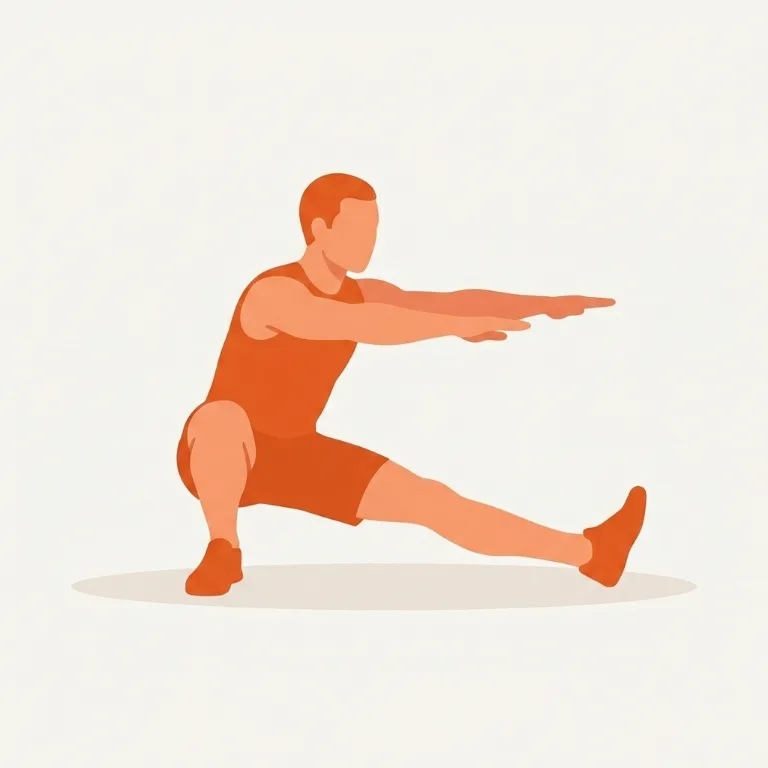
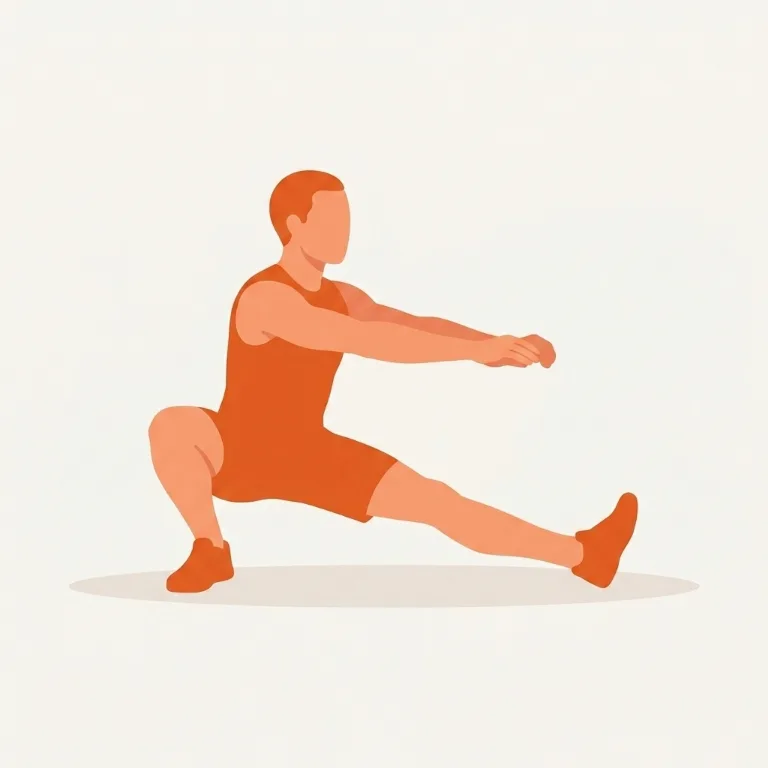
Replace light stretches with advanced split-focused work
Per Gabriel's goal (full front split / espacate), the easy filler
stretches give way to advanced drills taught in the playlist:

  neck-rolls        → leg-swings (dynamic, split-specific warm-up)
  rolldown          → jefferson-curl (loaded, Calimove/Strength Side)
  constructive-rest → removed (passive)
  childs-side-reach → removed (gentle)
  supine-twist      → removed (gentle)
  new in Front Split: standing-split · twisted-lizard (both per side)

Série 3 (Front Split) now carries 8 split drills; series stay balanced
at 21/19/20/19 holds (~2 h total). History remains safe for removed ids
(renders the raw id). Generated art for the four new exercises, and
regenerated pancake-fold (was a closed-leg rounded fold — now a clear
wide straddle with a flat back) and cossack to match the corrected
cues; orphaned images removed.

Claude-Session: https://claude.ai/code/session_019AqbedViT1ZmWN3hovyGKq

diff --git a/js/data.js b/js/data.js
@@ -125,7 +125,7 @@ export const EXERCISES = [
   { id: 'dead-hang',        cat: 'cal',  name: 'Dead Hang',        mode: 'time', target: 30, cue: 'Relax into the hang, breathe' },
 
   // ═══════════════ STRETCHING · Warm-up ═══════════════
-  { id: 'neck-rolls',        cat: 'stretch', group: 'warm', name: 'Neck Rolls',        mode: 'time', target: 60, cue: 'Slow half-circles in front only — ear to shoulder, chin to chest, never crank back' },
+  { id: 'leg-swings',        cat: 'stretch', group: 'warm', name: 'Leg Swings',        mode: 'time', target: 60, cue: 'Front-to-back swings, tall posture, hips square — bigger each rep; switch legs halfway' },
   { id: 'cat-cow',           cat: 'stretch', group: 'warm', name: 'Cat–Cow',           mode: 'time', target: 60, cue: 'Move with the breath — inhale arch and look up, exhale round and press the floor away' },
   { id: 'thoracic-rotation', cat: 'stretch', group: 'warm', name: 'Thoracic Rotation', mode: 'time', target: 60, side: true, cue: 'All fours, hand behind head — open to the ceiling and follow the elbow with your eyes' },
   { id: 'hip-cars',          cat: 'stretch', group: 'warm', name: 'Hip CARs',          mode: 'time', target: 60, side: true, cue: 'Biggest pain-free knee circle at the hip, torso braced still — slow beats big' },
@@ -148,7 +148,6 @@ export const EXERCISES = [
   { id: 'low-lunge',        cat: 'stretch', group: 'psoas', name: 'Low Lunge',              mode: 'time', target: 60, side: true, cue: 'Tuck the pelvis and squeeze the back glute first, then sink — the stretch is in the front of the back hip' },
   { id: 'couch-stretch',    cat: 'stretch', group: 'psoas', name: 'Couch Stretch',          mode: 'time', target: 60, side: true, cue: 'Back foot up the wall, knee in the corner — rise only as far as the pelvis stays tucked' },
   { id: 'lizard',           cat: 'stretch', group: 'psoas', name: 'Lizard Pose',            mode: 'time', target: 60, side: true, cue: 'Both hands inside the front foot, back leg long — forearms down only if the hips stay level' },
-  { id: 'constructive-rest', cat: 'stretch', group: 'psoas', name: 'Constructive Rest',     mode: 'time', target: 60, cue: 'On the back, knees bent, feet flat — do nothing; slow breaths tell the psoas it is safe to let go' },
   { id: 'standing-hip-ext', cat: 'stretch', group: 'psoas', name: 'Standing Hip Extension', mode: 'time', target: 60, side: true, cue: 'Reach the leg long behind you, pelvis level and tucked — squeeze the glute, never arch the low back' },
 
   // ═══════════════ STRETCHING · Hamstrings ═══════════════
@@ -158,7 +157,7 @@ export const EXERCISES = [
   { id: 'hinge-fold',           cat: 'stretch', group: 'hams', name: 'Hinge Fold',           mode: 'time', target: 60, cue: 'Stick the butt back, arch the lower back, chest travels forward-and-down — stop the moment the arch is lost' },
   { id: 'half-split',           cat: 'stretch', group: 'hams', name: 'Half Split',           mode: 'time', target: 60, side: true, cue: 'Runner’s stretch — hips square and stacked over the back knee, chest long over the front leg' },
   { id: 'hurdler',              cat: 'stretch', group: 'hams', name: 'Hurdler Stretch',      mode: 'time', target: 60, side: true, cue: 'Sit on a cushion so the pelvis can tip forward — fold at the hips over the leg; a bent knee beats a rounded back' },
-  { id: 'rolldown',             cat: 'stretch', group: 'hams', name: 'Slow Rolldown',        mode: 'time', target: 60, cue: 'Roll down vertebra by vertebra with soft knees — hang, then rebuild the spine from the bottom up' },
+  { id: 'jefferson-curl',       cat: 'stretch', group: 'hams', name: 'Jefferson Curl',       mode: 'time', target: 60, cue: 'Light weight in the hands — roll down vertebra by vertebra, knees locked, hang, rebuild slowly' },
 
   // ═══════════════ STRETCHING · Front split (espacate) ═══════════════
   { id: 'lunge-pulses',         cat: 'stretch', group: 'split', name: 'Lunge Pulses',            mode: 'time', target: 60, side: true, cue: 'Deep lunge, back knee hovering — small controlled sinks with the hips square to the front' },
@@ -167,6 +166,8 @@ export const EXERCISES = [
   { id: 'standing-quad',        cat: 'stretch', group: 'split', name: 'Standing Quad Pull',      mode: 'time', target: 60, side: true, cue: 'Heel to glute, knees together, pelvis tucked — the pull climbs the front of the thigh' },
   { id: 'front-split',          cat: 'stretch', group: 'split', name: 'Front Split · Espacate',  mode: 'time', target: 60, side: true, cue: 'Blocks under the hands, hips square — belly-breathe, soften the face, and sink a little on each exhale' },
   { id: 'split-pnf',            cat: 'stretch', group: 'split', name: 'Split PNF Press',         mode: 'time', target: 60, side: true, cue: 'In your deepest split: press both legs into the floor 10 s, release with a belly breath — repeat 3 rounds' },
+  { id: 'standing-split',       cat: 'stretch', group: 'split', name: 'Standing Split',       mode: 'time', target: 60, side: true, cue: 'Fold over the standing leg, back leg climbs high — square the hips first, then chase height' },
+  { id: 'twisted-lizard',       cat: 'stretch', group: 'split', name: 'Twisted Lizard',       mode: 'time', target: 60, side: true, cue: 'In lizard, bend the back knee and grab the foot — pull the heel in to open quad and hip flexor together' },
 
   // ═══════════════ STRETCHING · Pancake & middle split ═══════════════
   { id: 'butterfly',           cat: 'stretch', group: 'pancake', name: 'Butterfly',             mode: 'time', target: 60, cue: 'Soles together, sit tall — gently press the knees down and release, then tip the pelvis to fold' },
@@ -185,8 +186,6 @@ export const EXERCISES = [
   { id: 'sphinx-cobra',      cat: 'stretch', group: 'back', name: 'Sphinx → Cobra',     mode: 'time', target: 60, cue: 'Sphinx first, then press toward cobra — hips heavy, shoulders down, nothing pinching in the low back' },
   { id: 'puppy-pose',        cat: 'stretch', group: 'back', name: 'Puppy Pose',         mode: 'time', target: 60, cue: 'Hips high over the knees, chest melts to the floor — armpits reach long' },
   { id: 'chest-opener',      cat: 'stretch', group: 'back', name: 'Chest Opener',       mode: 'time', target: 60, cue: 'Forearms on a support, knees under the hips — let the chest sink through the shoulders' },
-  { id: 'childs-side-reach', cat: 'stretch', group: 'back', name: 'Child’s Side Reach', mode: 'time', target: 60, side: true, cue: 'From child’s pose walk both hands to one corner — breathe into the open ribs' },
-  { id: 'supine-twist',      cat: 'stretch', group: 'back', name: 'Supine Twist',       mode: 'time', target: 60, side: true, cue: 'Knee across the body, both shoulders down — let the knee hang and twist on the exhale' },
   { id: 'bridge-hold',       cat: 'stretch', group: 'back', name: 'Bridge Hold',        mode: 'time', target: 60, cue: 'Press through the heels, squeeze the glutes, open the front line — chin soft, ribs down' },
 
   // ═══════════════ STRETCHING · Glutes ═══════════════
@@ -234,7 +233,7 @@ export const ROUTINE = {
         '10 ERROS QUE TE DEIXAM MENOS FLEXÍVEL — Lu Corti',
       ],
       items: [
-        ['neck-rolls'], ['cat-cow'], ['thoracic-rotation', 'LR'],
+        ['leg-swings'], ['cat-cow'], ['thoracic-rotation', 'LR'],
         ['hip-cars', 'LR'], ['deep-squat-hold'], ['down-dog-flow'],
       ],
     },
@@ -264,7 +263,7 @@ export const ROUTINE = {
       ],
       items: [
         ['psoas-march'], ['low-lunge', 'LR'], ['couch-stretch', 'LR'],
-        ['lizard', 'LR'], ['constructive-rest'], ['standing-hip-ext', 'LR'],
+        ['lizard', 'LR'], ['standing-hip-ext', 'LR'],
       ],
     },
     {
@@ -278,7 +277,7 @@ export const ROUTINE = {
       ],
       items: [
         ['elephant-walks'], ['forward-fold'], ['single-leg-hamstring', 'LR'],
-        ['hinge-fold'], ['half-split', 'LR'], ['hurdler', 'LR'], ['rolldown'],
+        ['hinge-fold'], ['half-split', 'LR'], ['hurdler', 'LR'], ['jefferson-curl'],
       ],
     },
     {
@@ -293,6 +292,7 @@ export const ROUTINE = {
       items: [
         ['lunge-pulses', 'LR'], ['lunge-halfsplit-flow', 'LR'], ['pigeon', 'LR'],
         ['standing-quad', 'LR'], ['front-split', 'LR'], ['split-pnf', 'LR'],
+        ['standing-split', 'LR'], ['twisted-lizard', 'LR'],
       ],
     },
     {
@@ -316,8 +316,7 @@ export const ROUTINE = {
         'Ballet Total Body DEEP Stretching — Lazy Dancer Tips',
       ],
       items: [
-        ['sphinx-cobra'], ['puppy-pose'], ['chest-opener'],
-        ['childs-side-reach', 'LR'], ['supine-twist', 'LR'], ['bridge-hold'],
+        ['sphinx-cobra'], ['puppy-pose'], ['chest-opener'], ['bridge-hold'],
       ],
     },
     {

diff --git a/js/gen-manifest.js b/js/gen-manifest.js
@@ -21,10 +21,8 @@ export const GENERATED = {
   "cat-cow": "webp",
   "chest-opener": "webp",
   "chest-press": "webp",
-  "childs-side-reach": "webp",
   "chin-up": "webp",
   "concentration-curl": "webp",
-  "constructive-rest": "webp",
   "cossack": "webp",
   "couch-stretch": "webp",
   "crossover-single": "webp",
@@ -62,6 +60,7 @@ export const GENERATED = {
   "incline-dumbbell-fly": "webp",
   "incline-push-up": "webp",
   "inner-thigh-raise": "webp",
+  "jefferson-curl": "webp",
   "knee-push-up": "webp",
   "lat-machine-single": "webp",
   "lat-machine": "webp",
@@ -77,11 +76,11 @@ export const GENERATED = {
   "leg-press-45": "webp",
   "leg-press-90": "webp",
   "leg-press-horizontal": "webp",
+  "leg-swings": "webp",
   "lizard": "webp",
   "low-lunge": "webp",
   "lunge-halfsplit-flow": "webp",
   "lunge-pulses": "webp",
-  "neck-rolls": "webp",
   "negative-pull-up": "webp",
   "ninety-ninety": "webp",
   "pancake-fold": "webp",
@@ -94,7 +93,6 @@ export const GENERATED = {
   "puppy-pose": "webp",
   "push-up": "webp",
   "releve-holds": "webp",
-  "rolldown": "webp",
   "rope-pulldown": "webp",
   "row-horizontal-machine": "webp",
   "scapular-pull": "webp",
@@ -110,14 +108,15 @@ export const GENERATED = {
   "split-pnf": "webp",
   "standing-hip-ext": "webp",
   "standing-quad": "webp",
+  "standing-split": "webp",
   "straddle-center": "webp",
   "straddle-side-reach": "webp",
   "sumo-squat": "webp",
-  "supine-twist": "webp",
   "thoracic-rotation": "webp",
   "toe-stretch-kneel": "webp",
   "triceps-pushdown-single": "webp",
   "triceps-pushdown": "webp",
+  "twisted-lizard": "webp",
   "v-bar-pulldown": "webp",
   "wall-straddle": "webp",
   "wide-leg-fold": "webp",

diff --git a/sw.js b/sw.js
@@ -1,5 +1,5 @@
 // Cache-first app-shell service worker. Bump VERSION on every deploy.
-const VERSION = 'exercises-v13';
+const VERSION = 'exercises-v14';
 const SHELL = [
   './',
   'index.html',